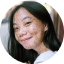
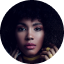
fix: button image and card image

diff --git a/src/data/card-data.ts b/src/data/card-data.ts
@@ -1,44 +1,42 @@
+import User1 from "../assets/user1.png"
+import User2 from "../assets/user2.png"
+import User3 from "../assets/user3.png"
+import User4 from "../assets/user4.png"
+
 export const cardsData = [
     {
       id: 1,
-      text: "Viverra lacus suspendisse elit, adipiscing orci, non turpis etiam sapien. Viverra blandit sem neque pretium. Duis enim semper fermentum consequat aenean libero. Blandit porta leo condimentum dolor, nisi, aliquet ante laoreet.",
-      name: "Courtney Henry",
-      consumption: "6KWh",
-      urlImage: "src/assets/user1.png"
+      text: "Purus maecenas quis elit eu, aliquet. Tellus porttitor ut sollicitudin sit non fringilla. Quam nunc volutpat senectus neque eget amet pharetra, euismod. Tempus, nunc, molestie imperdiet curabitur commodo euismod.",
+      name: "Jane Cooper",
+      consumption: "10KWh",
+      urlImage: `${User1}`
     },
     {
       id: 2,
-      text: "Lorem ipsum dolor sit amet, consectetur adipiscing elit. Vivamus lacinia odio vitae vestibulum vestibulum.",
-      name: "John Doe",
-      consumption: "8KWh",
-      urlImage: "src/assets/user1.png"
+      text: "Viverra lacus suspendisse elit, adipiscing orci, non turpis etiam sapien. Viverra blandit sem neque pretium. Duis enim semper fermentum consequat aenean libero. Blandit porta leo condimentum dolor, nisi, aliquet ante laoreet.",
+      name: "Courtney Henry",
+      consumption: "6KWh",
+      urlImage: `${User2}`
     },
     {
       id: 3,
       text: "Fusce vehicula dolor arcu, sit amet blandit dolor mollis nec. Donec viverra eleifend lacus, vitae ullamcorper metus.",
       name: "Jane Smith",
       consumption: "7KWh",
-      urlImage: "src/assets/user1.png"
+      urlImage: `${User3}`
     },
     {
         id: 4,
-        text: "Fusce vehicula dolor arcu, sit amet blandit dolor mollis nec. Donec viverra eleifend lacus, vitae ullamcorper metus.",
-        name: "Jane Smith",
-        consumption: "7KWh",
-        urlImage: "src/assets/user1.png"
+        text: "Hendrerit augue ut nec, senectus quis integer netus. Sagittis fusce rhoncus magnis habitant amet amet. Egestas amet habitasse amet risus tellus ornare. Hendrerit augue ut nec, senectus. Mauris egestas feugiat leo vitae praesent neque, et.",
+        name: "Cameron Williamson",
+        consumption: "12KWh",
+        urlImage: `${User4}`
     },
     {
-        id: 5,
-        text: "Fusce vehicula dolor arcu, sit amet blandit dolor mollis nec. Donec viverra eleifend lacus, vitae ullamcorper metus.",
-        name: "Jane Smith",
-        consumption: "7KWh",
-        urlImage: "src/assets/user1.png"
-    },
-    {
-      id: 6,
-      text: "Fusce vehicula dolor arcu, sit amet blandit dolor mollis nec. Donec viverra eleifend lacus, vitae ullamcorper metus.",
-      name: "Jane Smith",
-      consumption: "7KWh",
-      urlImage: "src/assets/user1.png"
+      id: 5,
+      text: "Hendrerit augue ut nec, senectus quis integer netus. Sagittis fusce rhoncus magnis habitant amet amet. Egestas amet habitasse amet risus tellus ornare. Hendrerit augue ut nec, senectus. Mauris egestas feugiat leo vitae praesent neque, et.",
+      name: "Cameron Williamson",
+      consumption: "12KWh",
+      urlImage: `${User4}`
   }
 ]

diff --git a/src/components/section6/index.tsx b/src/components/section6/index.tsx
@@ -2,6 +2,8 @@ import Button from "../button"
 import Macbook from "../../assets/Macbook.png"
 import Figure from "../../assets/mobile/geometric-figures-mobile/Ellipse 2.png"
 import Figure1 from "../../assets/geometric figures/figure7.png"
+import Arrow from "../../assets/arrow-right-2.svg"
+import ArrowHover from "../../assets/arrow-right-3.svg"
 
 const Section6 = () => {
     return (
@@ -38,7 +40,7 @@ const Section6 = () => {
 
                 <div className="">
                     <div className="flex flex-col pt-[40px] gap-4 items-center">
-                        <Button borderColor="border-colorButtonSecondary" backgroundHover="hover:bg-colorButtonSecondary" textColor="text-colorButtonSecondary" textColorHover="hover:text-textColorHoverButton" arrow="src/assets/arrow-right-2.svg" arrowHover="src/assets/arrow-right-3.svg"/>
+                        <Button borderColor="border-colorButtonSecondary" backgroundHover="hover:bg-colorButtonSecondary" textColor="text-colorButtonSecondary" textColorHover="hover:text-textColorHoverButton" arrow={Arrow} arrowHover={ArrowHover}/>
                         <p className="
                         text-[16px] leading-[22.4px] font-normal text-colorPrimary z-10
                         md:text-[18px] md:leading-[28.8px] md:text-center">Egestas fringilla aliquam leo</p>

diff --git a/src/components/section5/index.tsx b/src/components/section5/index.tsx
@@ -5,6 +5,8 @@ import Card from "../card"
 import { useRef, useState } from "react"
 import { cardsData } from "../../data/card-data"
 import { useCarouselScroll } from "../../hooks/useCarouselScroll/useCarouselScroll"
+import Arrow from "../../assets/arrow-right-2.svg"
+import ArrowHover from "../../assets/arrow-right-3.svg"
 
 const Section5 = () => {
 
@@ -36,7 +38,7 @@ const Section5 = () => {
                     md:text-[20px] md:leading-[36px]">Dui euismod iaculis libero, aliquet vitae et elementum porttitor. Eleifend mi tristique condimentum congue fusce nunc, donec magnis commodo.</p>
                 </div>
 
-                <Button borderColor="border-colorButtonSecondary" backgroundHover="hover:bg-colorButtonSecondary" textColor="text-colorButtonSecondary" textColorHover="hover:text-textColorHoverButton" arrow="src/assets/arrow-right-2.svg" arrowHover="src/assets/arrow-right-3.svg"/>
+                <Button borderColor="border-colorButtonSecondary" backgroundHover="hover:bg-colorButtonSecondary" textColor="text-colorButtonSecondary" textColorHover="hover:text-textColorHoverButton" arrow={Arrow} arrowHover={ArrowHover}/>
             </div>
 
             <div ref={scrollRef} className="

diff --git a/src/components/section1/index.tsx b/src/components/section1/index.tsx
@@ -1,5 +1,7 @@
 import Button from "../button"
 import User1 from "../../assets/user1.png"
+import Arrow from "../../assets/arrow-right-1.svg"
+import ArrowHover from "../../assets/arrow-right-2.svg"
 
 const Section1 = () => {
     return (
@@ -16,7 +18,7 @@ const Section1 = () => {
                 <p className="
                 text-[18px] leading-[28.8px] font-normal text-center
                 md:text-[24px] md:leading-[38.4px] md:text-start">Viverra viverra nibh enim et aliquam, enim. Tempor, sit mus viverra orci dui consequat turpis scelerisque.</p>
-                <Button borderColor="border-colorButton" backgroundHover="hover:bg-colorButton" textColor="text-colorButton" textColorHover="hover:text-colorButtonSecondary" arrow="src/assets/arrow-right-1.svg" arrowHover="src/assets/arrow-right-2.svg"/>
+                <Button borderColor="border-colorButton" backgroundHover="hover:bg-colorButton" textColor="text-colorButton" textColorHover="hover:text-colorButtonSecondary" arrow={Arrow} arrowHover={ArrowHover}/>
             </div>
 
             <div className="
